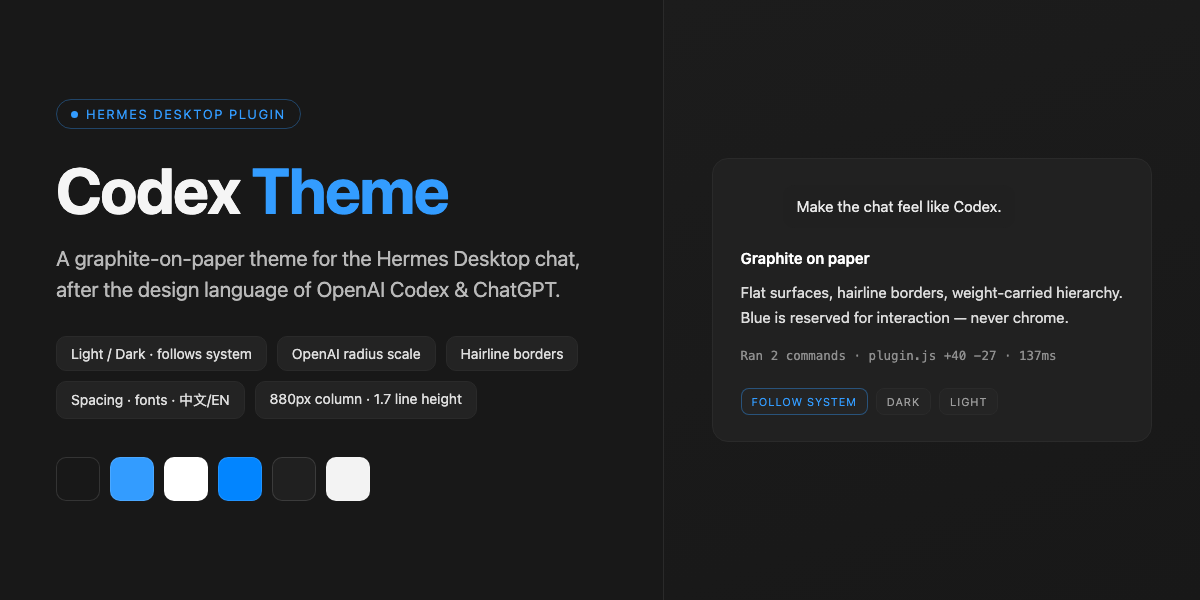
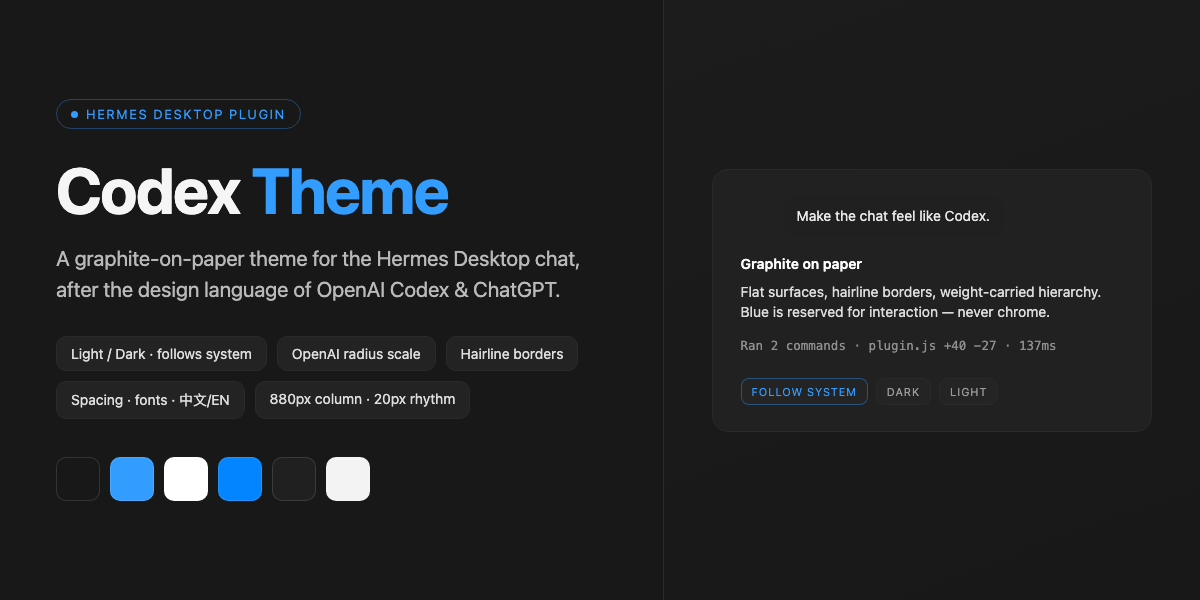
README 同步 v1.1 实际值并刷新样张与封面
- 行高数值三处对齐实际（1.3/1.4286/1.55，根行高 1.4286），中英同步；plugin.js 提示串/description 与 plugin.yaml 同源修正，避免文档对了 UI 提示错了
- 披露段 Storage 清单补输入框焦点，并如实补记拖拽落点与安装标记（ctx.storage 实有三条记录）；中文安装段改「等收录进」与英文口径一致
- Highlights 补输入区拖拽、输入框不抢焦点两条 v1.1 特性
- 样张/封面 HTML 正文 15px/1.55-1.7 → 14px/20px，封面 pill 改 20px rhythm，headless Chrome 重渲三图（旧图已验证可逐字节复现，渲染口径未变）

diff --git a/desktop/plugin.js b/desktop/plugin.js
@@ -7,7 +7,7 @@
  *   - 发丝线代替阴影：1px 边框做层次，表面保持平整
  *   - 圆角走 OpenAI 官方刻度：内联代码 4px、侧栏行 8px、控件 10px、卡片/菜单/弹窗/气泡 12px、composer 20px
  *   - 边框统一 10% 前景色（浅 #e7e7e7 / 深 #2a2a2a）；用户气泡前景 5%（浅 #f3f3f3 / 深 #202020）无描边
- *   - 间距节奏：4px 网格；行高 1.7（紧凑 1.55 / 宽松 1.8）
+ *   - 间距节奏：4px 网格；行高 1.4286（紧凑 1.3 / 宽松 1.55）
  *   - 阅读栏 768 / 880 / 992px 三档（默认 880px）
  *
  * 控制入口（不在输入框加东西）：
@@ -755,7 +755,7 @@ const LOCALES = {
     widthLabel: 'Reading width',
     widthHint: 'Prose column width — Compact 768px · Comfortable 880px · Roomy 992px (ChatGPT uses 720–768px).',
     densityLabel: 'Content spacing',
-    densityHint: 'Line height and paragraph rhythm — Compact 1.55 · Comfortable 1.7 (default) · Roomy 1.8.',
+    densityHint: 'Line height and paragraph rhythm — Compact 1.3 · Comfortable 1.4286 (default) · Roomy 1.55.',
     compact: 'Compact',
     comfortable: 'Comfortable',
     roomy: 'Roomy',
@@ -810,7 +810,7 @@ const LOCALES = {
     widthLabel: '阅读宽度',
     widthHint: '正文列宽 —— 紧凑 768px · 舒适 880px · 宽松 992px（ChatGPT 为 720–768px）。',
     densityLabel: '内容间距',
-    densityHint: '行距与段落节奏 —— 紧凑 1.55 · 舒适 1.7（默认）· 宽松 1.8。',
+    densityHint: '行距与段落节奏 —— 紧凑 1.3 · 舒适 1.4286（默认）· 宽松 1.55。',
     compact: '紧凑',
     comfortable: '舒适',
     roomy: '宽松',
@@ -1635,7 +1635,7 @@ export default {
   id: ID,
   name: 'Codex Theme',
   // 面板描述的唯一来源（desktop 契约无 version/author 字段，尾注与 plugin.yaml 的 version/author 同步）
-  description: 'Codex × ChatGPT inspired theme for the Hermes Desktop chat — dual light/dark palettes that follow the system appearance, graphite-on-paper typography with a 1.7 root line height and content-spacing presets (1.55/1.7/1.8), the OpenAI radius scale (inline 4px / rows 8px / controls 10px / cards 12px / composer 20px), hairline borders, and a bilingual Settings page (appearance mode, 768/880/992px reading width, text & code font presets, user/assistant chat bubble colors, input focus guard (hands-off / follow-mouse), zh/en language, GitHub Issues feedback). (v1.1.0 · ethanz-code)',
+  description: 'Codex × ChatGPT inspired theme for the Hermes Desktop chat — dual light/dark palettes that follow the system appearance, graphite-on-paper typography with a 1.4286 root line height and content-spacing presets (1.3/1.4286/1.55), the OpenAI radius scale (inline 4px / rows 8px / controls 10px / cards 12px / composer 20px), hairline borders, and a bilingual Settings page (appearance mode, 768/880/992px reading width, text & code font presets, user/assistant chat bubble colors, input focus guard (hands-off / follow-mouse), zh/en language, GitHub Issues feedback). (v1.1.0 · ethanz-code)',
   register(ctx) {
     storage = ctx.storage
     pluginOs = ctx.os || null

diff --git a/assets/cover.html b/assets/cover.html
@@ -41,10 +41,10 @@
   .card .row { display: flex; gap: 12px; margin-bottom: 18px; }
   .bubble {
     background: #202020; border: none; border-radius: 12px;
-    padding: 10px 14px; font-size: 15px; line-height: 1.55; color: #e8e8e8;
+    padding: 10px 14px; font-size: 14px; line-height: 20px; color: #e8e8e8;
   }
   .bubble.me { margin-left: 42px; }
-  .flat { font-size: 15px; line-height: 1.7; color: #dcdcdc; }
+  .flat { font-size: 14px; line-height: 20px; color: #dcdcdc; }
   .flat .h { color: #fff; font-weight: 600; }
   .flat .m { color: #8f8f8f; font-family: ui-monospace, 'SF Mono', Menlo, monospace; font-size: 12.5px; }
   .bar { display: flex; gap: 8px; margin-top: 22px; }
@@ -62,7 +62,7 @@
       <div class="pill">OpenAI radius scale</div>
       <div class="pill">Hairline borders</div>
       <div class="pill">Spacing · fonts · 中文/EN</div>
-      <div class="pill">880px column · 1.7 line height</div>
+      <div class="pill">880px column · 20px rhythm</div>
     </div>
     <div class="swatches">
       <div class="sw" style="background:#181818"></div>

diff --git a/assets/dark.html b/assets/dark.html
@@ -14,9 +14,9 @@
   .meta { font-family: ui-monospace, 'SF Mono', Menlo, monospace; font-size: 12.5px; color: #8f8f8f; margin: 22px 0 6px; }
   .me {
     background: #202020; border: none; border-radius: 12px;
-    padding: 10px 14px; font-size: 15px; line-height: 1.55; width: fit-content; margin-left: auto; max-width: 80%;
+    padding: 10px 14px; font-size: 14px; line-height: 20px; width: fit-content; margin-left: auto; max-width: 80%;
   }
-  .flat { font-size: 15px; line-height: 1.7; color: #dcdcdc; margin-top: 20px; }
+  .flat { font-size: 14px; line-height: 20px; color: #dcdcdc; margin-top: 20px; }
   .flat h3 { font-size: 17px; font-weight: 600; color: #fff; margin-bottom: 8px; letter-spacing: -0.01em; }
   .flat ul { margin: 10px 0 0 1.35em; }
   .flat li { margin: 5px 0; }

diff --git a/assets/light.html b/assets/light.html
@@ -14,9 +14,9 @@
   .meta { font-family: ui-monospace, 'SF Mono', Menlo, monospace; font-size: 12.5px; color: #8a8a8a; margin: 22px 0 6px; }
   .me {
     background: #f3f3f3; border: none; border-radius: 12px;
-    padding: 10px 14px; font-size: 15px; line-height: 1.55; width: fit-content; margin-left: auto; max-width: 80%;
+    padding: 10px 14px; font-size: 14px; line-height: 20px; width: fit-content; margin-left: auto; max-width: 80%;
   }
-  .flat { font-size: 15px; line-height: 1.7; color: #2c2c2c; margin-top: 20px; }
+  .flat { font-size: 14px; line-height: 20px; color: #2c2c2c; margin-top: 20px; }
   .flat h3 { font-size: 17px; font-weight: 600; color: #111; margin-bottom: 8px; letter-spacing: -0.01em; }
   .flat ul { margin: 10px 0 0 1.35em; }
   .flat li { margin: 5px 0; }

diff --git a/README.md b/README.md
@@ -39,8 +39,8 @@ the plugin says to you.
   dark) is reserved for interaction, never chrome
 - **OpenAI radius scale** — inline code 4px · sidebar rows 8px · controls 10px ·
   cards, bubbles, menus and dialogs 12px · composer 20px
-- **Content spacing presets** — Compact 1.55 / Comfortable 1.7 (default) /
-  Roomy 1.8 line height, with paragraph and bubble padding scaled to match
+- **Content spacing presets** — Compact 1.3 / Comfortable 1.4286 (default) /
+  Roomy 1.55 line height, with paragraph and bubble padding scaled to match
 - **768 / 880 / 992px reading width** — Compact / Comfortable (default) /
   Roomy, wider than ChatGPT's 720–768px
 - **Text & code font presets** — body text (Default / Serif / Mono) and code
@@ -48,6 +48,13 @@ the plugin says to you.
   Chinese/English text renders well; *Default* never overrides your font setup
 - **Chat bubble colors** — pick background and text colors for your own bubbles
   and for assistant replies; *Default* keeps the theme's own look
+- **Draggable composer** — hold the composer's top edge to float it anywhere
+  in the viewport (clamped on screen, a growing draft never drifts the spot);
+  double-click the handle to dock it back, and every panel remembers its own
+  drop spot
+- **Input focus, hands off** — the input box stops pulling focus back when the
+  pointer moves over the chat area or you click outside; *Follow mouse* keeps
+  the old behavior if you want it
 - **English / 中文 interface** — follows the system & app language by default,
   or pin one in Settings; every label, hint and popup is localized
 - **Feedback in one click** — Settings carries a *Open GitHub Issues* button
@@ -74,7 +81,7 @@ the plugin says to you.
 | Interaction-only blue | `#0285FF` light / `#339CFF` dark for links, focus rings, selection |
 | Hairline borders | 1px strokes (`#E7E7E7` / `#2A2A2A`) instead of shadows; surfaces stay flat |
 | Radius scale | 4px inline · 8px rows · 10px controls · 12px cards/bubbles/dialogs · 20px composer |
-| Line height | Root 1.7 — a notch airier than stock; spacing presets 1.55 / 1.7 / 1.8 |
+| Line height | Root 1.4286 — 14px body on a 20px rhythm (aligned to ZCode); spacing presets 1.3 / 1.4286 / 1.55 |
 | Reading width | 880px default · presets 768 / 880 / 992px (ChatGPT: 720–768px) |
 
 ### Palettes
@@ -119,7 +126,7 @@ Everything lives in **Settings → Plugins → Codex Theme**, grouped into
 |---|---|---|
 | Appearance mode | Follow system / Dark / Light | Follows the system appearance by default |
 | Reading width | Compact (768px) / Comfortable (880px, default) / Roomy (992px) | Theme-level knob; Hermes has no built-in width setting |
-| Content spacing | Compact (1.55) / Comfortable (1.7, default) / Roomy (1.8) | Line height + paragraph & bubble rhythm |
+| Content spacing | Compact (1.3) / Comfortable (1.4286, default) / Roomy (1.55) | Line height + paragraph & bubble rhythm |
 | Text font | Default / Serif / Mono | Chinese fallbacks in every preset; *Default* keeps theme/app fonts |
 | Code font | Default / Fira Code / Courier | Fira Code / JetBrains Mono must be installed locally — otherwise the system mono kicks in |
 | User bubble background | Color picker + *Default* | *Default*: theme gray (#F3F3F3 light / #202020 dark) |
@@ -170,9 +177,10 @@ to know before installing:
 - **External link:** the *Feedback* button asks the OS to open the repo's
   GitHub Issues page in your browser (`ctx.os.openExternal`) — the only
   external action in the plugin, and only when you press the button.
-- **Storage:** one plugin-scoped record (`ctx.storage`) for your settings-page
-  choices — appearance mode, reading width, content spacing, fonts, chat bubble
-  colors and language.
+- **Storage:** one plugin-scoped store (`ctx.storage`) holding your
+  settings-page choices — appearance mode, reading width, content spacing,
+  fonts, chat bubble colors, input focus and language — plus the composer's
+  remembered drag spots and a first-install flag.
 - **Styling:** the theme's `customCSS` is injected as a scoped style block by
   the app's own theme engine, exactly like user skins; it changes visuals, never
   behavior.

diff --git a/README.zh-CN.md b/README.zh-CN.md
@@ -35,7 +35,7 @@
   （600/500/400）承载；蓝色（浅 `#0285FF` / 深 `#339CFF`）只做交互，绝不用于装饰
 - **OpenAI 圆角刻度** —— 行内代码 4px · 侧栏行 8px · 控件 10px ·
   卡片/气泡/菜单/弹窗 12px · 输入区 20px
-- **内容间距三档** —— 紧凑 1.55 / 舒适 1.7（默认）/ 宽松 1.8 行高，
+- **内容间距三档** —— 紧凑 1.3 / 舒适 1.4286（默认）/ 宽松 1.55 行高，
   段距与气泡内距随档联动
 - **阅读宽度 768 / 880 / 992px** —— 紧凑 / 舒适（默认）/ 宽松，
   比 ChatGPT 的 720–768px 更宽
@@ -44,6 +44,10 @@
   「默认」档完全不覆盖你的字体设置
 - **气泡颜色自定义** —— 用户气泡与助手回复的背景色、文字色都可自选；
   「默认」保持主题原色
+- **输入区可拖拽** —— 按住输入区顶缘把手可拖到视口任意位置（边界钳制不溢出，
+  草稿长高落点不漂移）；双击把手回坞，每个面板各自记住落点
+- **输入框不抢焦点** —— 鼠标移过聊天区或点击外部时，输入框不再把焦点抢回去；
+  习惯旧行为可在设置里选「跟随鼠标」
 - **中英双语界面** —— 默认跟随系统与应用语言，也可在设置里固定为中文或英文；
   标签、提示、弹窗文案全部本地化
 - **一键反馈** —— 设置页带「打开 GitHub Issues」按钮，经系统交给浏览器打开
@@ -68,7 +72,7 @@
 | 蓝色只做交互 | 浅 `#0285FF` / 深 `#339CFF`：链接、焦点环、选区 |
 | 发丝线代替阴影 | 1px 描边（`#E7E7E7` / `#2A2A2A`）做层次，表面保持平整 |
 | 圆角刻度 | 行内 4px · 行 8px · 控件 10px · 卡片/气泡/弹窗 12px · 输入区 20px |
-| 行高 | 根行高 1.7 —— 比默认舒展一档；间距档位 1.55 / 1.7 / 1.8 |
+| 行高 | 根行高 1.4286 —— 14px 正文走 20px 行距（对齐 ZCode）；间距档位 1.3 / 1.4286 / 1.55 |
 | 阅读宽度 | 默认 880px · 三档 768 / 880 / 992px（ChatGPT：720–768px） |
 
 ### 配色
@@ -84,7 +88,7 @@
 
 ## 安装
 
-进入[插件市场](https://hermes-agent.nousresearch.com/docs/plugins)后：
+等收录进[插件市场](https://hermes-agent.nousresearch.com/docs/plugins)后：
 
 ```bash
 hermes plugins install codex-theme
@@ -113,7 +117,7 @@ hermes plugins install ethanz-code/hermes-codex-theme
 |---|---|---|
 | 亮暗模式 | 跟随系统 / 深色 / 浅色 | 默认跟随系统外观 |
 | 阅读宽度 | 紧凑（768px）/ 舒适（880px，默认）/ 宽松（992px） | 主题级旋钮；Hermes 无内置宽度设置 |
-| 内容间距 | 紧凑（1.55）/ 舒适（1.7，默认）/ 宽松（1.8） | 行高 + 段距/气泡节奏联动 |
+| 内容间距 | 紧凑（1.3）/ 舒适（1.4286，默认）/ 宽松（1.55） | 行高 + 段距/气泡节奏联动 |
 | 正文字体 | 默认 / 衬线 / 等宽 | 每档带中文回退；「默认」沿用主题/应用字体 |
 | 代码字体 | 默认 / Fira Code / Courier | Fira Code、JetBrains Mono 需本机已安装，否则自动回退系统等宽 |
 | 用户气泡背景 | 拾色器 + 「默认」 | 「默认」为主题灰（浅 #F3F3F3 / 深 #202020） |
@@ -156,8 +160,9 @@ hermes plugins install ethanz-code/hermes-codex-theme
   （`THEMES_AREA`、`PALETTE_AREA`、`ctx.registerSettingsPage`、`ctx.i18n`）。
 - **外链一处：**「反馈问题」按钮请系统在浏览器打开仓库 Issues 页
   （`ctx.os.openExternal`）—— 全插件唯一的对外动作，且只在你按下按钮时发生。
-- **存储：** 仅一条插件自有记录（`ctx.storage`），保存设置页的选择
-  （亮暗模式、阅读宽度、内容间距、字体、气泡颜色与语言）。
+- **存储：** 仅插件自有存储（`ctx.storage`），保存设置页的选择
+  （亮暗模式、阅读宽度、内容间距、字体、气泡颜色、输入框焦点与语言），
+  外加输入区拖拽落点与首次安装标记。
 - **样式：** 主题的 `customCSS` 由应用自带主题引擎以作用域样式注入，
   与用户皮肤机制完全相同；只改视觉，不改行为。
 
